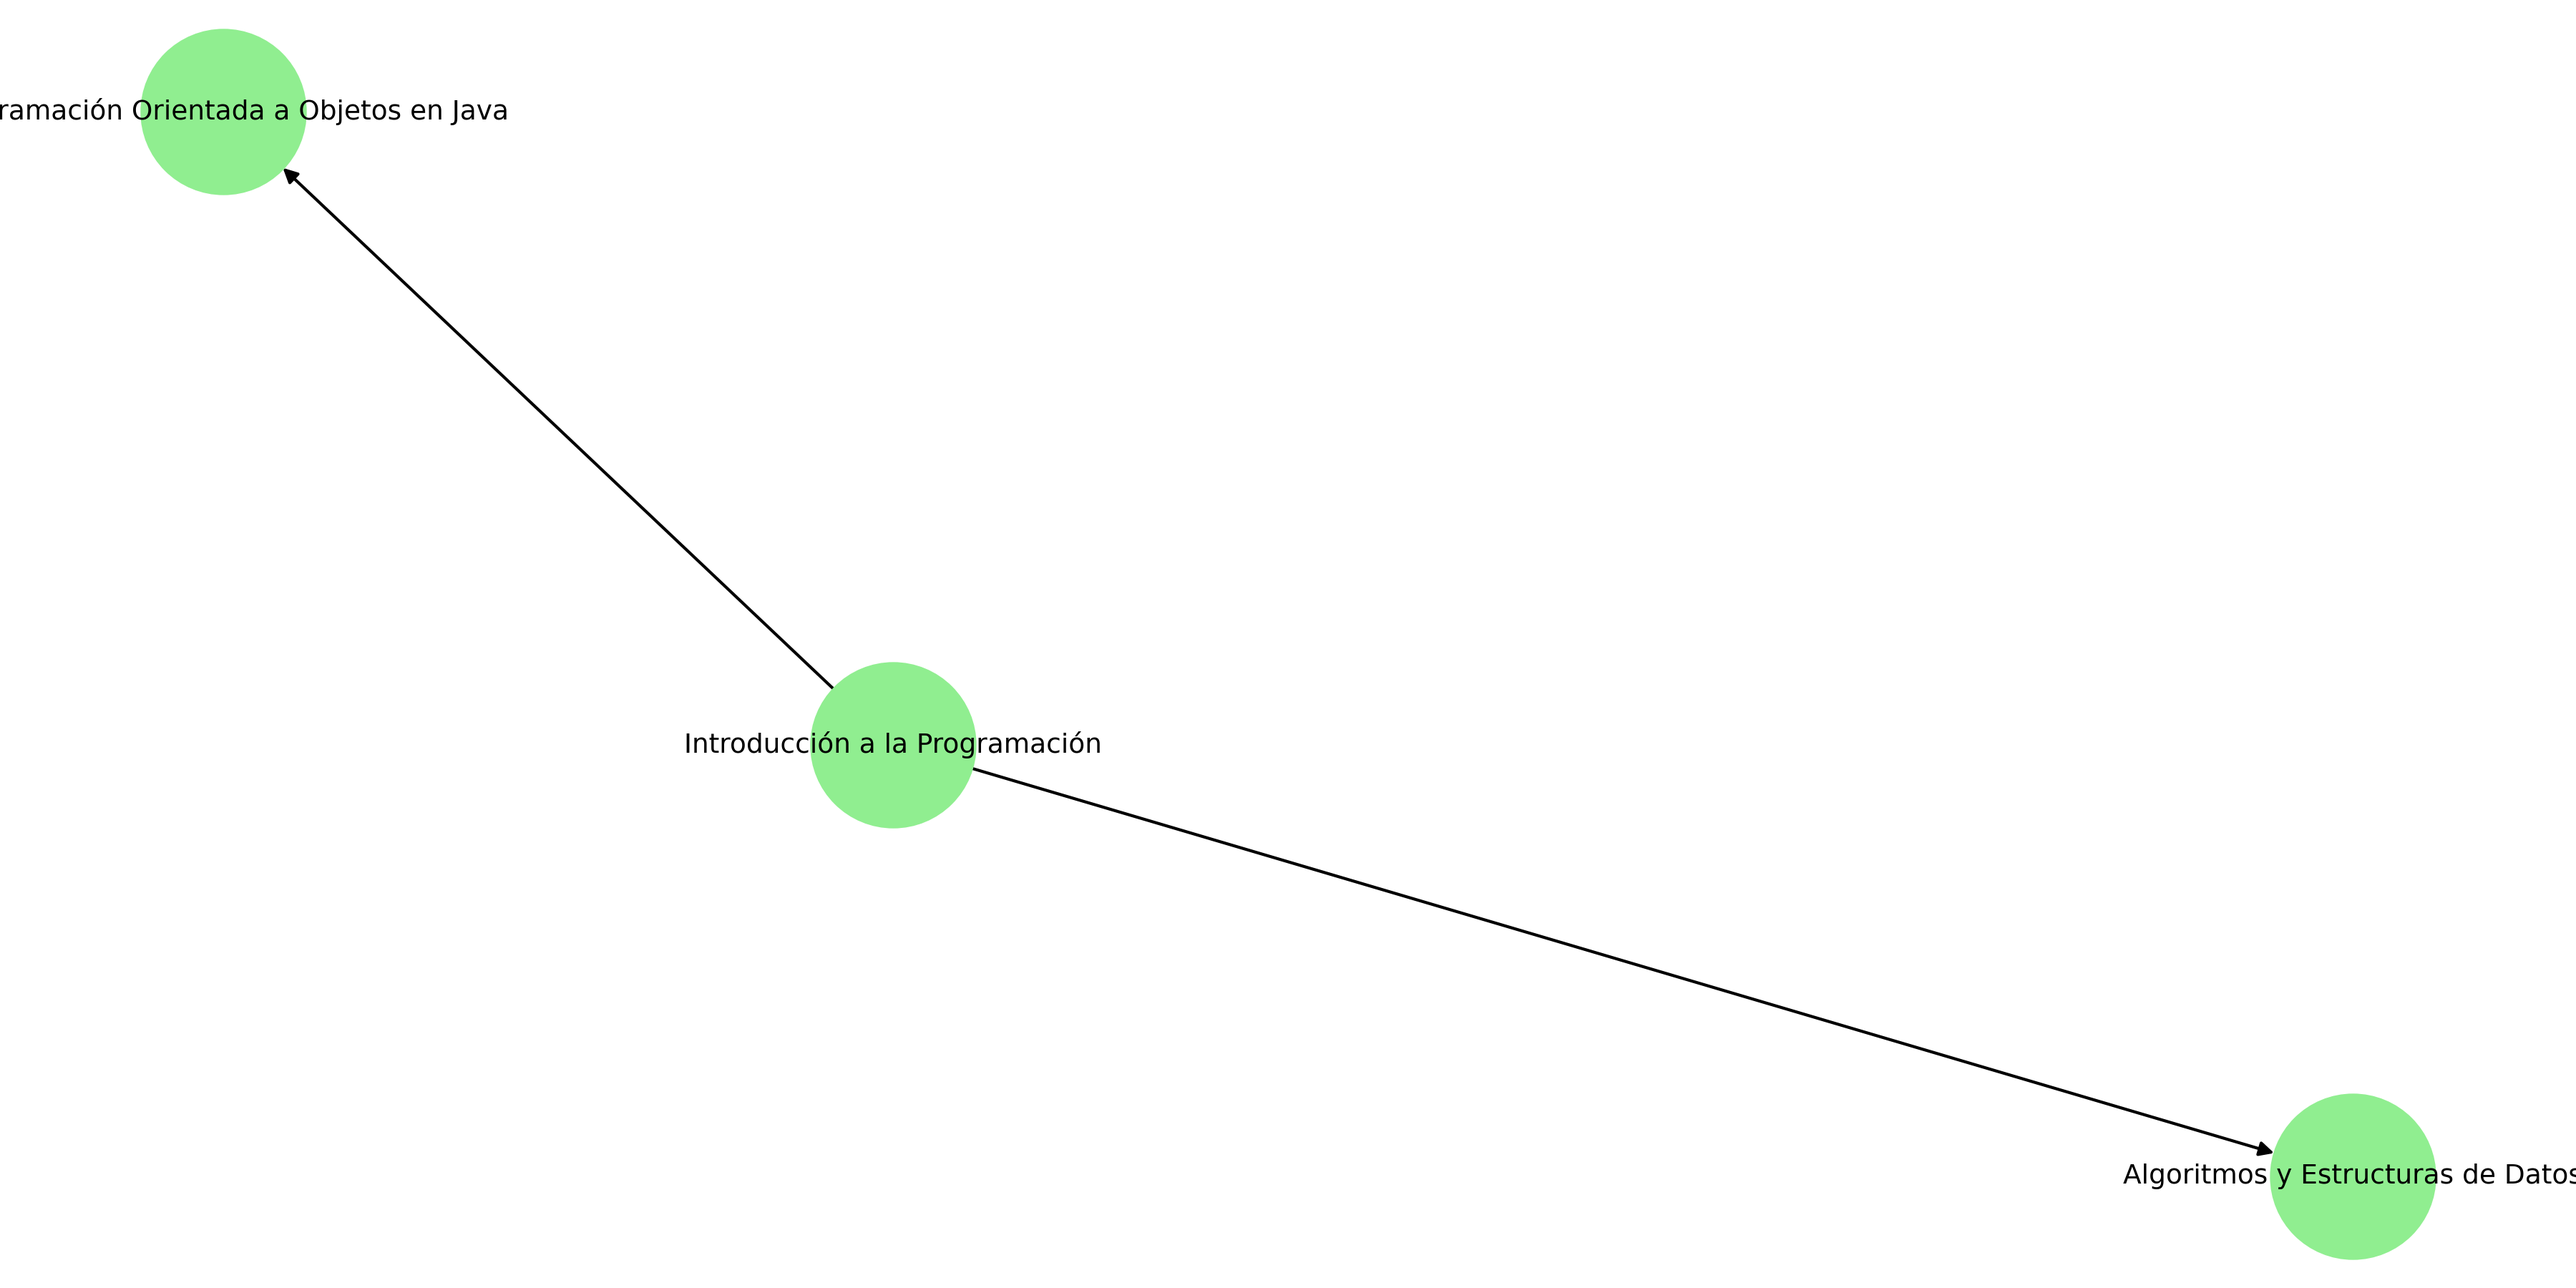
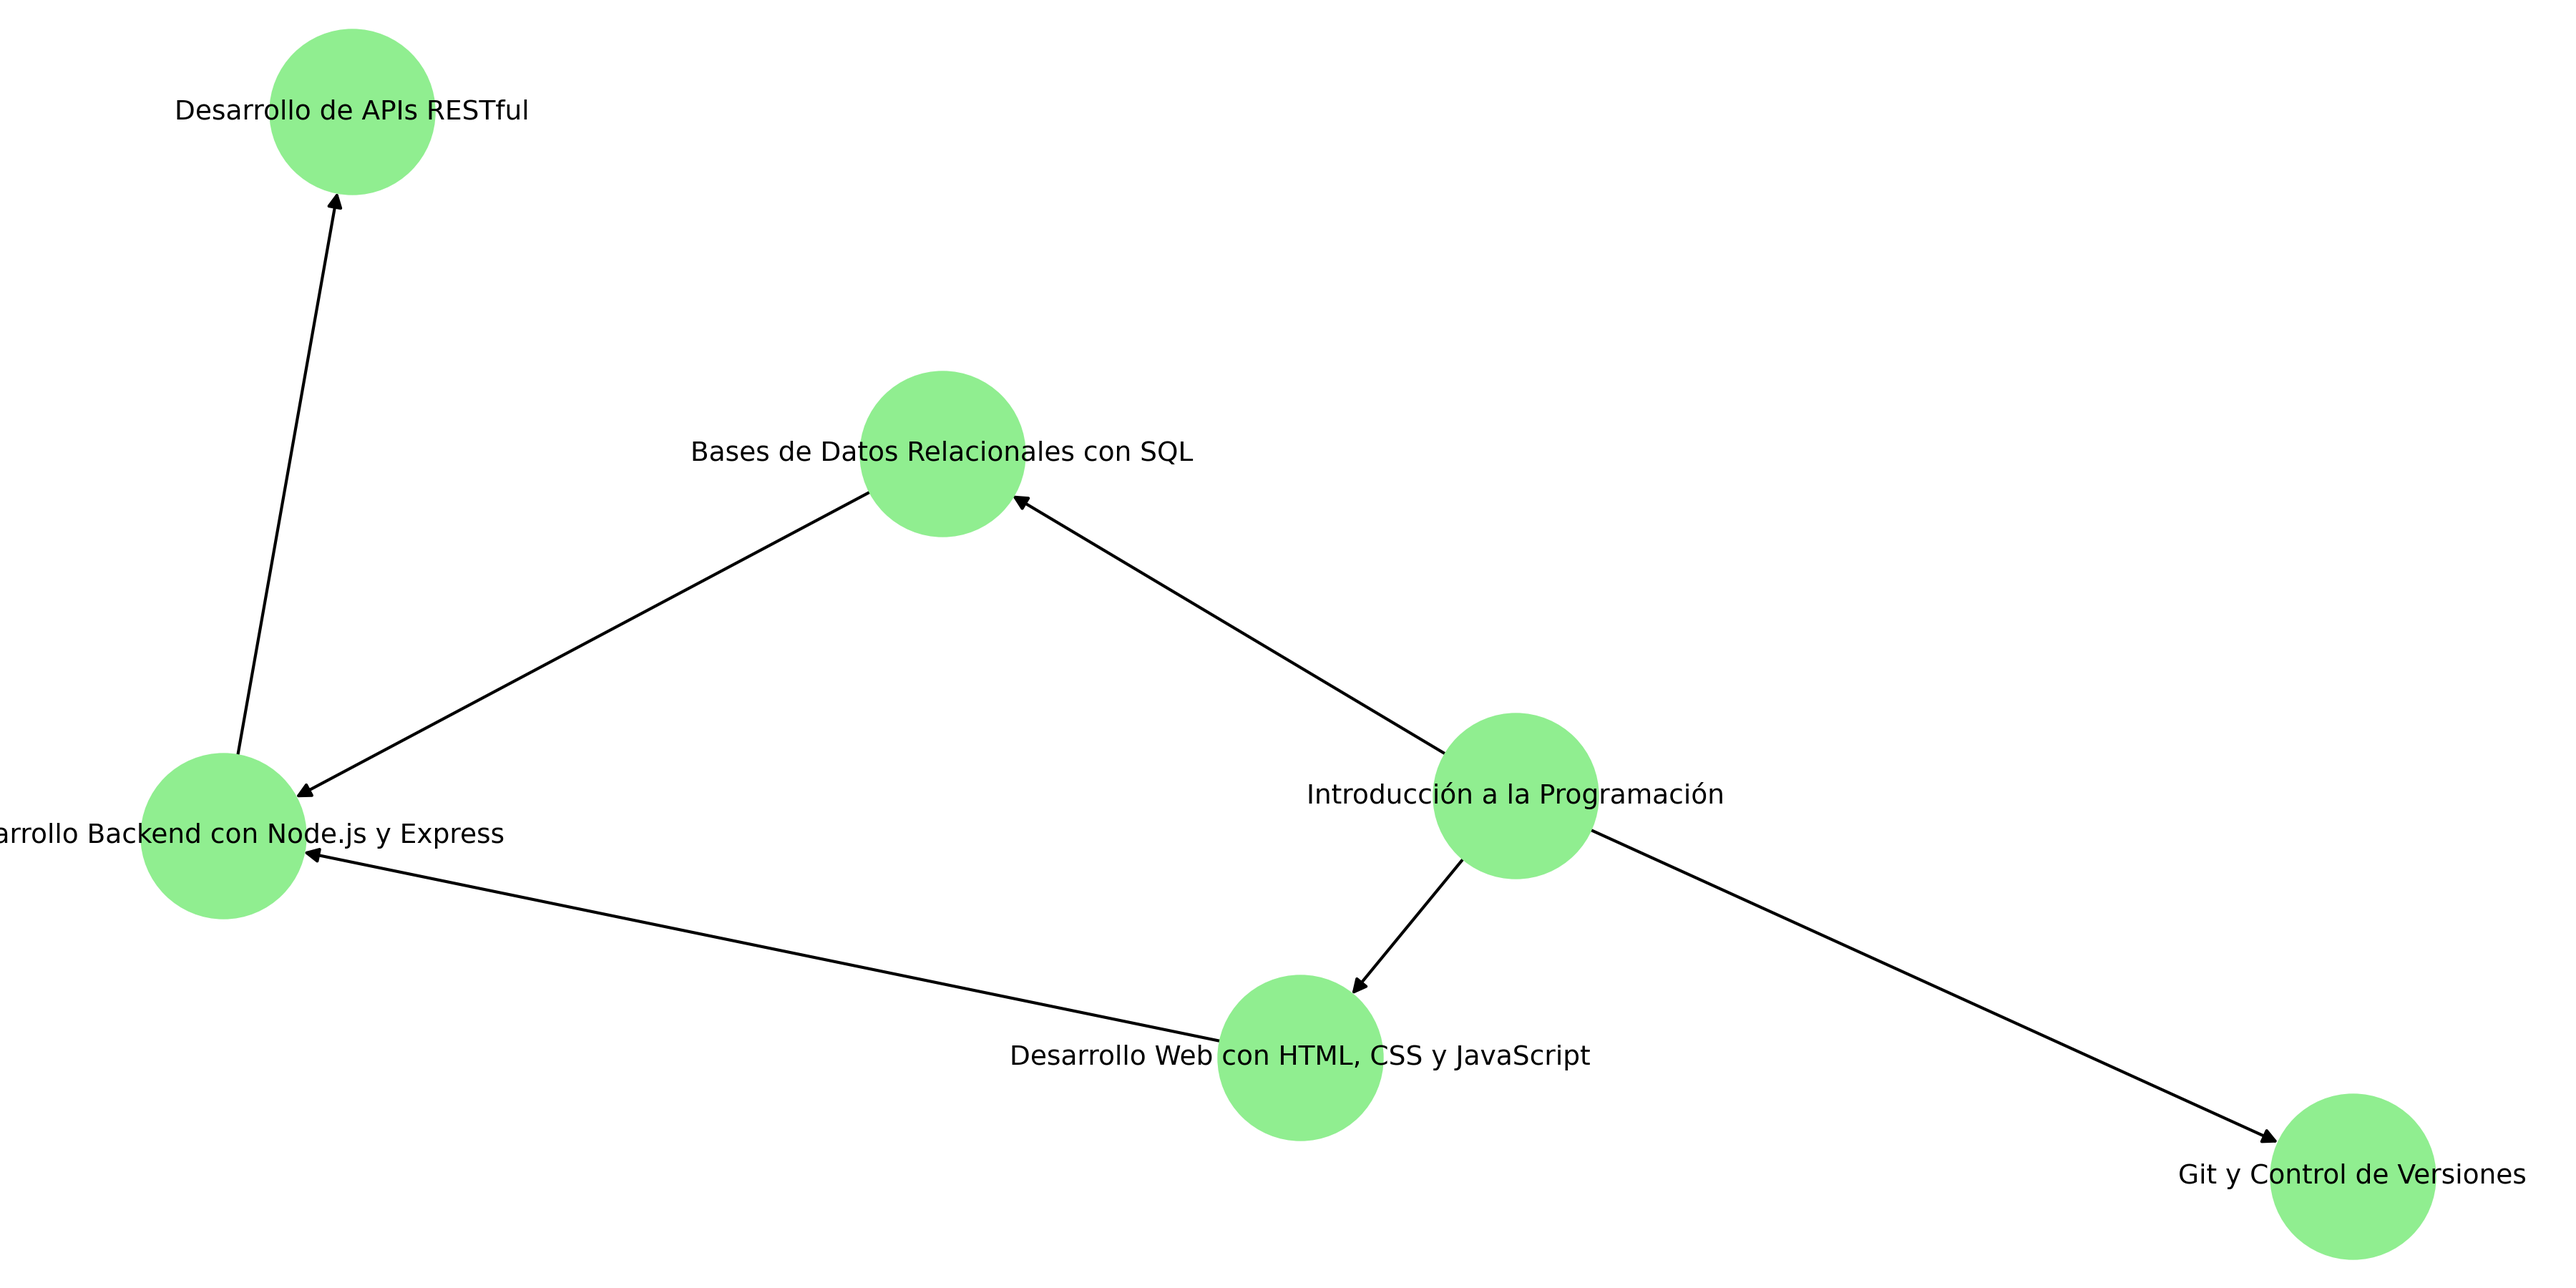
pruebas api: representacion visual del roadmap en el front exitosa

diff --git a/app/front/js/roadmap.js b/app/front/js/roadmap.js
@@ -12,31 +12,6 @@ document.querySelector(".roadmap-generate-button").addEventListener("click", asy
         nivel: nivel
     };
 
-    // try {
-    //     const response = await fetch("http://127.0.0.1:5000/generar-roadmap", {
-    //         method: "POST",
-    //         headers: {
-    //             "Content-Type": "application/json"
-    //         },
-    //         body: JSON.stringify(payload)
-    //     });
-
-    //     const data = await response.json();
-
-    //     if (!response.ok) {
-    //         console.error("Error desde el servidor:", data);
-    //         alert("Hubo un error al generar el roadmap.");
-    //         return;
-    //     }
-
-    //     console.log("Respuesta recibida desde la API:", data.aristas);
-    //     // Aquí construirás el grafo con GoJS usando data.aristas
-
-    // } catch (err) {
-    //     console.error("Error en la petición:", err);
-    //     alert("No se pudo conectar con el servidor.");
-    // }
-
     try {
         console.log("Enviando request al servidor...");
         const response = await fetch("http://127.0.0.1:5000/generar-roadmap", {
@@ -45,13 +20,11 @@ document.querySelector(".roadmap-generate-button").addEventListener("click", asy
                 "Content-Type": "application/json"
             },
             body: JSON.stringify(payload),
-            mode: "cors"  // <-- Asegura que sea una petición CORS bien formada
+            mode: "cors"
         });
 
-        console.log("Respuesta recibida:", response);
-
         if (!response.ok) {
-            const error = await response.text(); // usa .text() para ver incluso errores malformateados
+            const error = await response.text();
             console.error("Error desde el servidor (status != 200):", error);
             alert("Hubo un error al generar el roadmap.");
             return;
@@ -59,6 +32,80 @@ document.querySelector(".roadmap-generate-button").addEventListener("click", asy
 
         const data = await response.json();
         console.log("Respuesta parseada como JSON:", data);
+
+        const nodes = data.nodes;  // [{ id: "C1", titulo: "Intro a..." }, ...]
+        const edges = data.edges;  // [["C1", "C2"], ["C1", "C3"]]
+
+        const nodosGoJS = [];
+
+        // Primero, los nodos con key y título
+        nodes.forEach(n => {
+            nodosGoJS.push({
+                key: n.id,
+                titulo: n.titulo
+            });
+        });
+
+        // Luego, añadimos los enlaces padre-hijo
+        edges.forEach(([from, to]) => {
+            const nodo = nodosGoJS.find(n => n.key === to);
+            if (nodo) {
+                nodo.parent = from;
+            }
+        });
+
+        // Configurar GoJS como antes
+        const $ = go.GraphObject.make;
+
+        const myDiagram = $(go.Diagram, "myDiagramDiv", {
+            layout: $(go.TreeLayout, { angle: 0, layerSpacing: 40 }),
+            "undoManager.isEnabled": false,
+            "allowMove": false,
+            "allowLink": false,
+            "allowRelink": false,
+            "allowDelete": false,
+            "allowInsert": false,
+            initialAutoScale: go.Diagram.UniformToFill
+        });
+
+        // Ahora usamos el campo "titulo" para mostrar en el nodo
+        myDiagram.nodeTemplate = $(
+            go.Node, "Auto",
+            {
+                cursor: "pointer",
+                mouseEnter: (e, obj) => {
+                    const shape = obj.findObject("SHAPE");
+                    if (shape) shape.fill = "#76bdd5";
+                },
+                mouseLeave: (e, obj) => {
+                    const shape = obj.findObject("SHAPE");
+                    if (shape) shape.fill = "#add8e6";
+                }
+            },
+            $(
+                go.Shape, "RoundedRectangle",
+                { name: "SHAPE", fill: "lightblue", stroke: "#333" }
+            ),
+            $(
+                go.TextBlock,
+                { margin: 8, font: "bold 14px sans-serif" },
+                new go.Binding("text", "titulo") // Ahora mostramos el título
+            )
+        );
+
+        // Pintamos el grafo
+        myDiagram.model = new go.TreeModel(nodosGoJS);
+
+        // Comportamiento al hacer clic
+        myDiagram.addDiagramListener("ObjectSingleClicked", (e) => {
+            const node = e.subject.part;
+            if (node && node.data.key) {
+                const id = node.data.key;
+                const url = `/getCurso/${id}`;
+                window.open(url, "_blank");
+            }
+        });
+
 
     } catch (err) {
         console.error("Error inesperado en la petición:", err);

diff --git a/app/back/main.py b/app/back/main.py
@@ -133,6 +133,24 @@ def guardar_logs(contenido, duplas, prompt, cursos, nivel, tema):
     except Exception as e:
         print("[Error al guardar logs]:", str(e))
 
+def generar_respuesta(cursos, duplas):
+    ids_usados = {origen for origen, destino in duplas} | {destino for origen, destino in duplas}
+
+    # Mapa código → título
+    codigo_a_titulo = {
+        curso["id"]: curso["titulo"]
+        for curso in cursos
+        if curso["id"] in ids_usados
+    }
+
+    nodes = [{"id": codigo, "titulo": titulo} for codigo, titulo in codigo_a_titulo.items()]
+    edges = duplas  # ya están como [origen, destino] usando códigos
+
+    return {
+        "nodes": nodes,
+        "edges": edges
+    }
+
 # === Ruta principal ===
 @app.route("/generar-roadmap", methods=["POST"])
 def generar_roadmap():
@@ -160,6 +178,8 @@ def generar_roadmap():
         contenido_limpio = re.sub(r"```json|```", "", contenido).strip()
         duplas = json.loads(contenido_limpio)
 
+        respuesta = generar_respuesta(cursos, duplas)
+
         # Guardado en segundo plano
         threading.Thread(
             target=guardar_logs,
@@ -167,7 +187,7 @@ def generar_roadmap():
             daemon=True
         ).start()
 
-        return jsonify({"aristas": duplas})
+        return jsonify(respuesta)  # Devuelves nodes y edges
 
     except json.JSONDecodeError as e:
         return jsonify({"error": "La respuesta del modelo no es JSON válido", "detalle": str(e)}), 500
